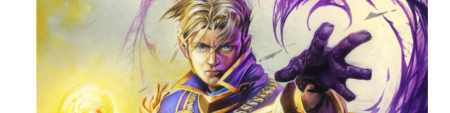
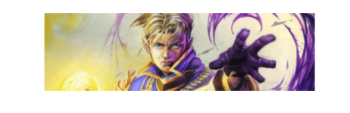
Design plus compacte

diff --git a/public/stylesheets/decklist.css b/public/stylesheets/decklist.css
@@ -4,7 +4,7 @@
 }
 .decklist-top {
     background: url('../img/decklist/heros/malfurion.jpg');
-    width: 450px;
+    width: 350px;
     height: 113px;
 }
 .decklist-content {
@@ -15,10 +15,11 @@
     text-shadow: 2px 0 0 #000, -2px 0 0 #000, 0 2px 0 #000, 0 -2px 0 #000, 1px 1px #000, -1px -1px 0 #000, 1px -1px 0 #000, -1px 1px 0 #000;
     color: #FFF;
     font-size: 18px;
-    width: 450px;
+    width: 350px;
     list-style-type: none;
     margin: 0px;
     padding: 0px;
+	vertical-align:top;
 }
 .decklist-content li {
     padding-left: 35px;
@@ -37,14 +38,16 @@
     padding: 0px;
     display: inline-block;
     text-align: center;
-    overflow: hidden;
-    text-overflow: clip;
+	max-height:40px;
+	text-overflow: ellipsis;
+	word-wrap: break-word;
+	overflow:hidden;
 }
 .decklist-content li .card-mana {
     width: 20px;
 }
 .decklist-content li .card-name {
-    width: 294px;
+    width: 194px;
     text-align: left;
 }
 .decklist-content li .card-name a,.decklist-content li .card-name a:visited {
@@ -59,7 +62,7 @@
     width: 35px;
 }
 .decklist-bottom {
-    width: 450px;
+    width: 350px;
     height: 37px;
 }
 .decklist-desc{
